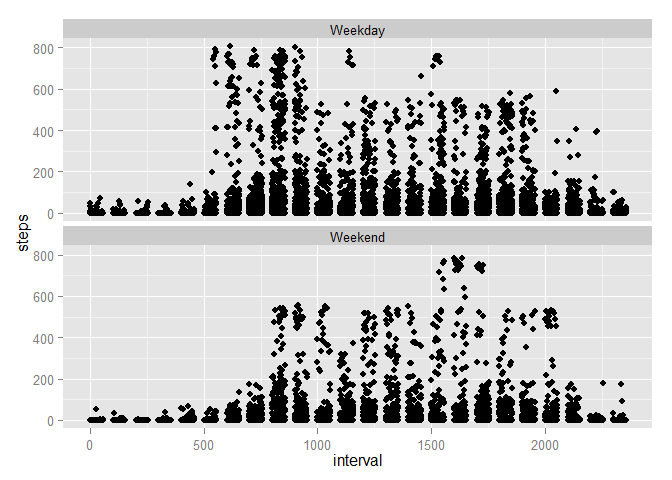
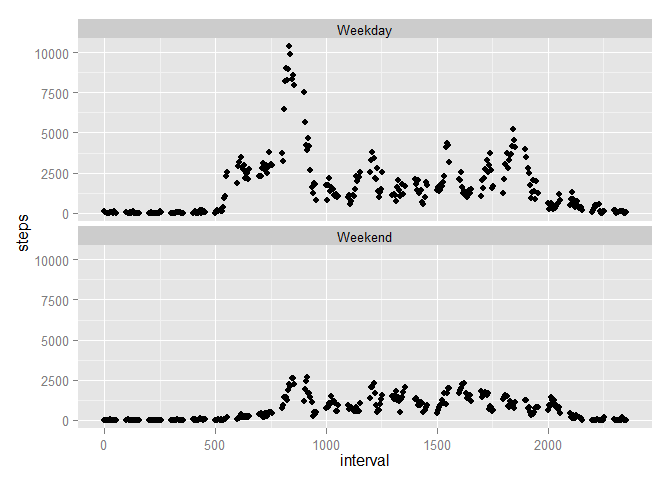
Final commit!

Changed region(s): [[0.0312, 0.0312, 0.9688, 0.9375], [0.5, 0.9375, 0.5938, 0.9688]]

diff --git a/PA1_template.html b/PA1_template.html
@@ -70,7 +70,7 @@ if (window.hljs && document.readyState && document.readyState === "complete") {
 </ul>
 </div>
 
-<p>Date: Sun Nov 16 19:29:15 2014</p>
+<p>Date: Sun Nov 16 19:55:17 2014</p>
 <div id="introduction" class="section level2">
 <h2>Introduction</h2>
 <p>This is a submission for a peer-assessed assignment in the Coursera <em>Reproducible Research</em> course offered by Johns Hopkins University. The assignment makes use of data from a personal activity monitoring device. This device collects data at 5 minute intervals through out the day. The data consists of two months of data from an anonymous individual collected during the months of October and November, 2012 and include the number of steps taken in 5 minute intervals each day.</p>
@@ -194,8 +194,10 @@ str(act2)</code></pre>
 ## 1899     1200 58.00000 2012-11-22 Weekday
 ## 1900     1200  0.00000 2012-10-16 Weekday
 ## 1901     1200  0.00000 2012-11-12 Weekday</code></pre>
-<pre class="r"><code>ggplot(act2, aes(interval,steps))+geom_point(color=&quot;black&quot;)+facet_wrap(~workday, nrow=2)</code></pre>
[1 lines of base64/hex data omitted]
+<pre class="r"><code>mdb = aggregate(steps ~ interval + workday, data = act2, sum)
+ggplot(mdb, aes(interval,steps))+geom_point(color=&quot;black&quot;)+facet_wrap(~workday, nrow=2)</code></pre>
[1 lines of base64/hex data omitted]
+<p><strong>Result: Subject apparently walks to work and gets a ride home (but not on weekends.)</strong></p>
 </div>
 <div id="additional-and-supporting-analyses" class="section level2">
 <h2>Additional and supporting analyses</h2>

diff --git a/PA1_template.md b/PA1_template.md
@@ -1,7 +1,7 @@
 # Reproducible Research: Peer Assessment 1
 Martin Smith  
 
-Date: Sun Nov 16 19:29:15 2014
+Date: Sun Nov 16 19:55:17 2014
 
 ##Introduction
 This is a submission for a peer-assessed assignment in the Coursera *Reproducible Research* course offered by Johns Hopkins University. The assignment makes use of data from a personal activity monitoring device. This device collects data at 5 minute intervals through out the day. The data consists of two months of data from an anonymous individual collected during the months of October and November, 2012 and include the number of steps taken in 5 minute intervals each day.  
@@ -244,11 +244,15 @@ head(act2[act2$interval==1200,],10)
 ```
 
 ```r
-ggplot(act2, aes(interval,steps))+geom_point(color="black")+facet_wrap(~workday, nrow=2)
+mdb = aggregate(steps ~ interval + workday, data = act2, sum)
+ggplot(mdb, aes(interval,steps))+geom_point(color="black")+facet_wrap(~workday, nrow=2)
 ```
 
 ![](./PA1_template_files/figure-html/weekends-1.png) 
 
+  
+
+**Result: Subject apparently walks to work and gets a ride home (but not on weekends.)**
 
 
 ##Additional and supporting analyses
